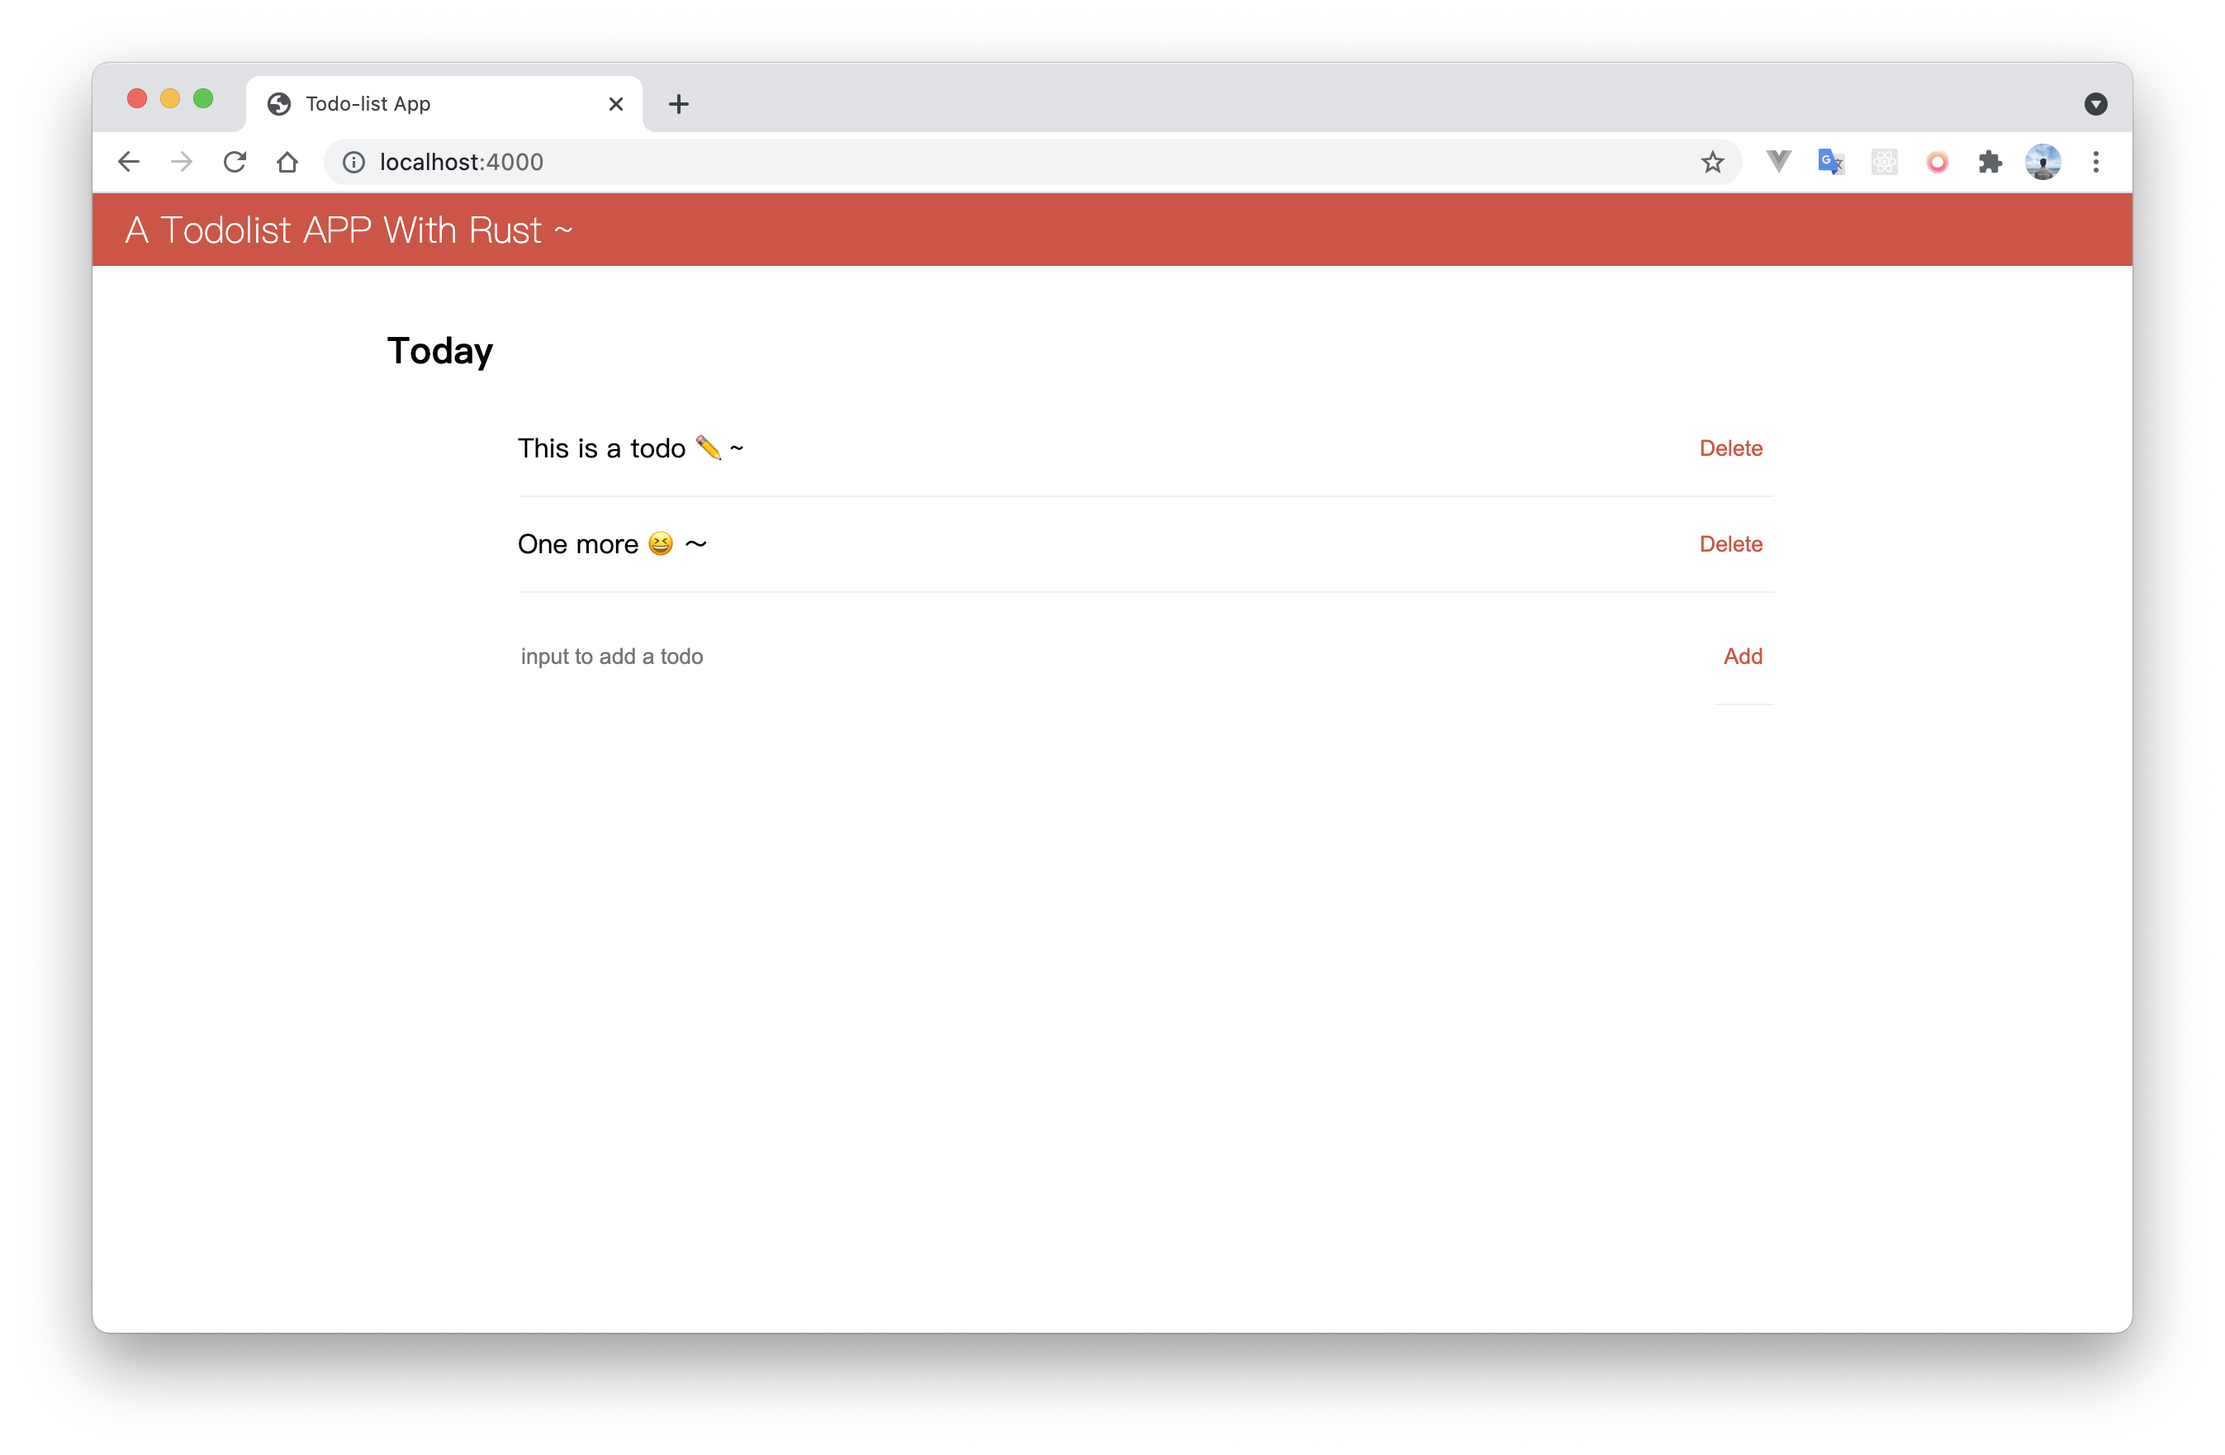
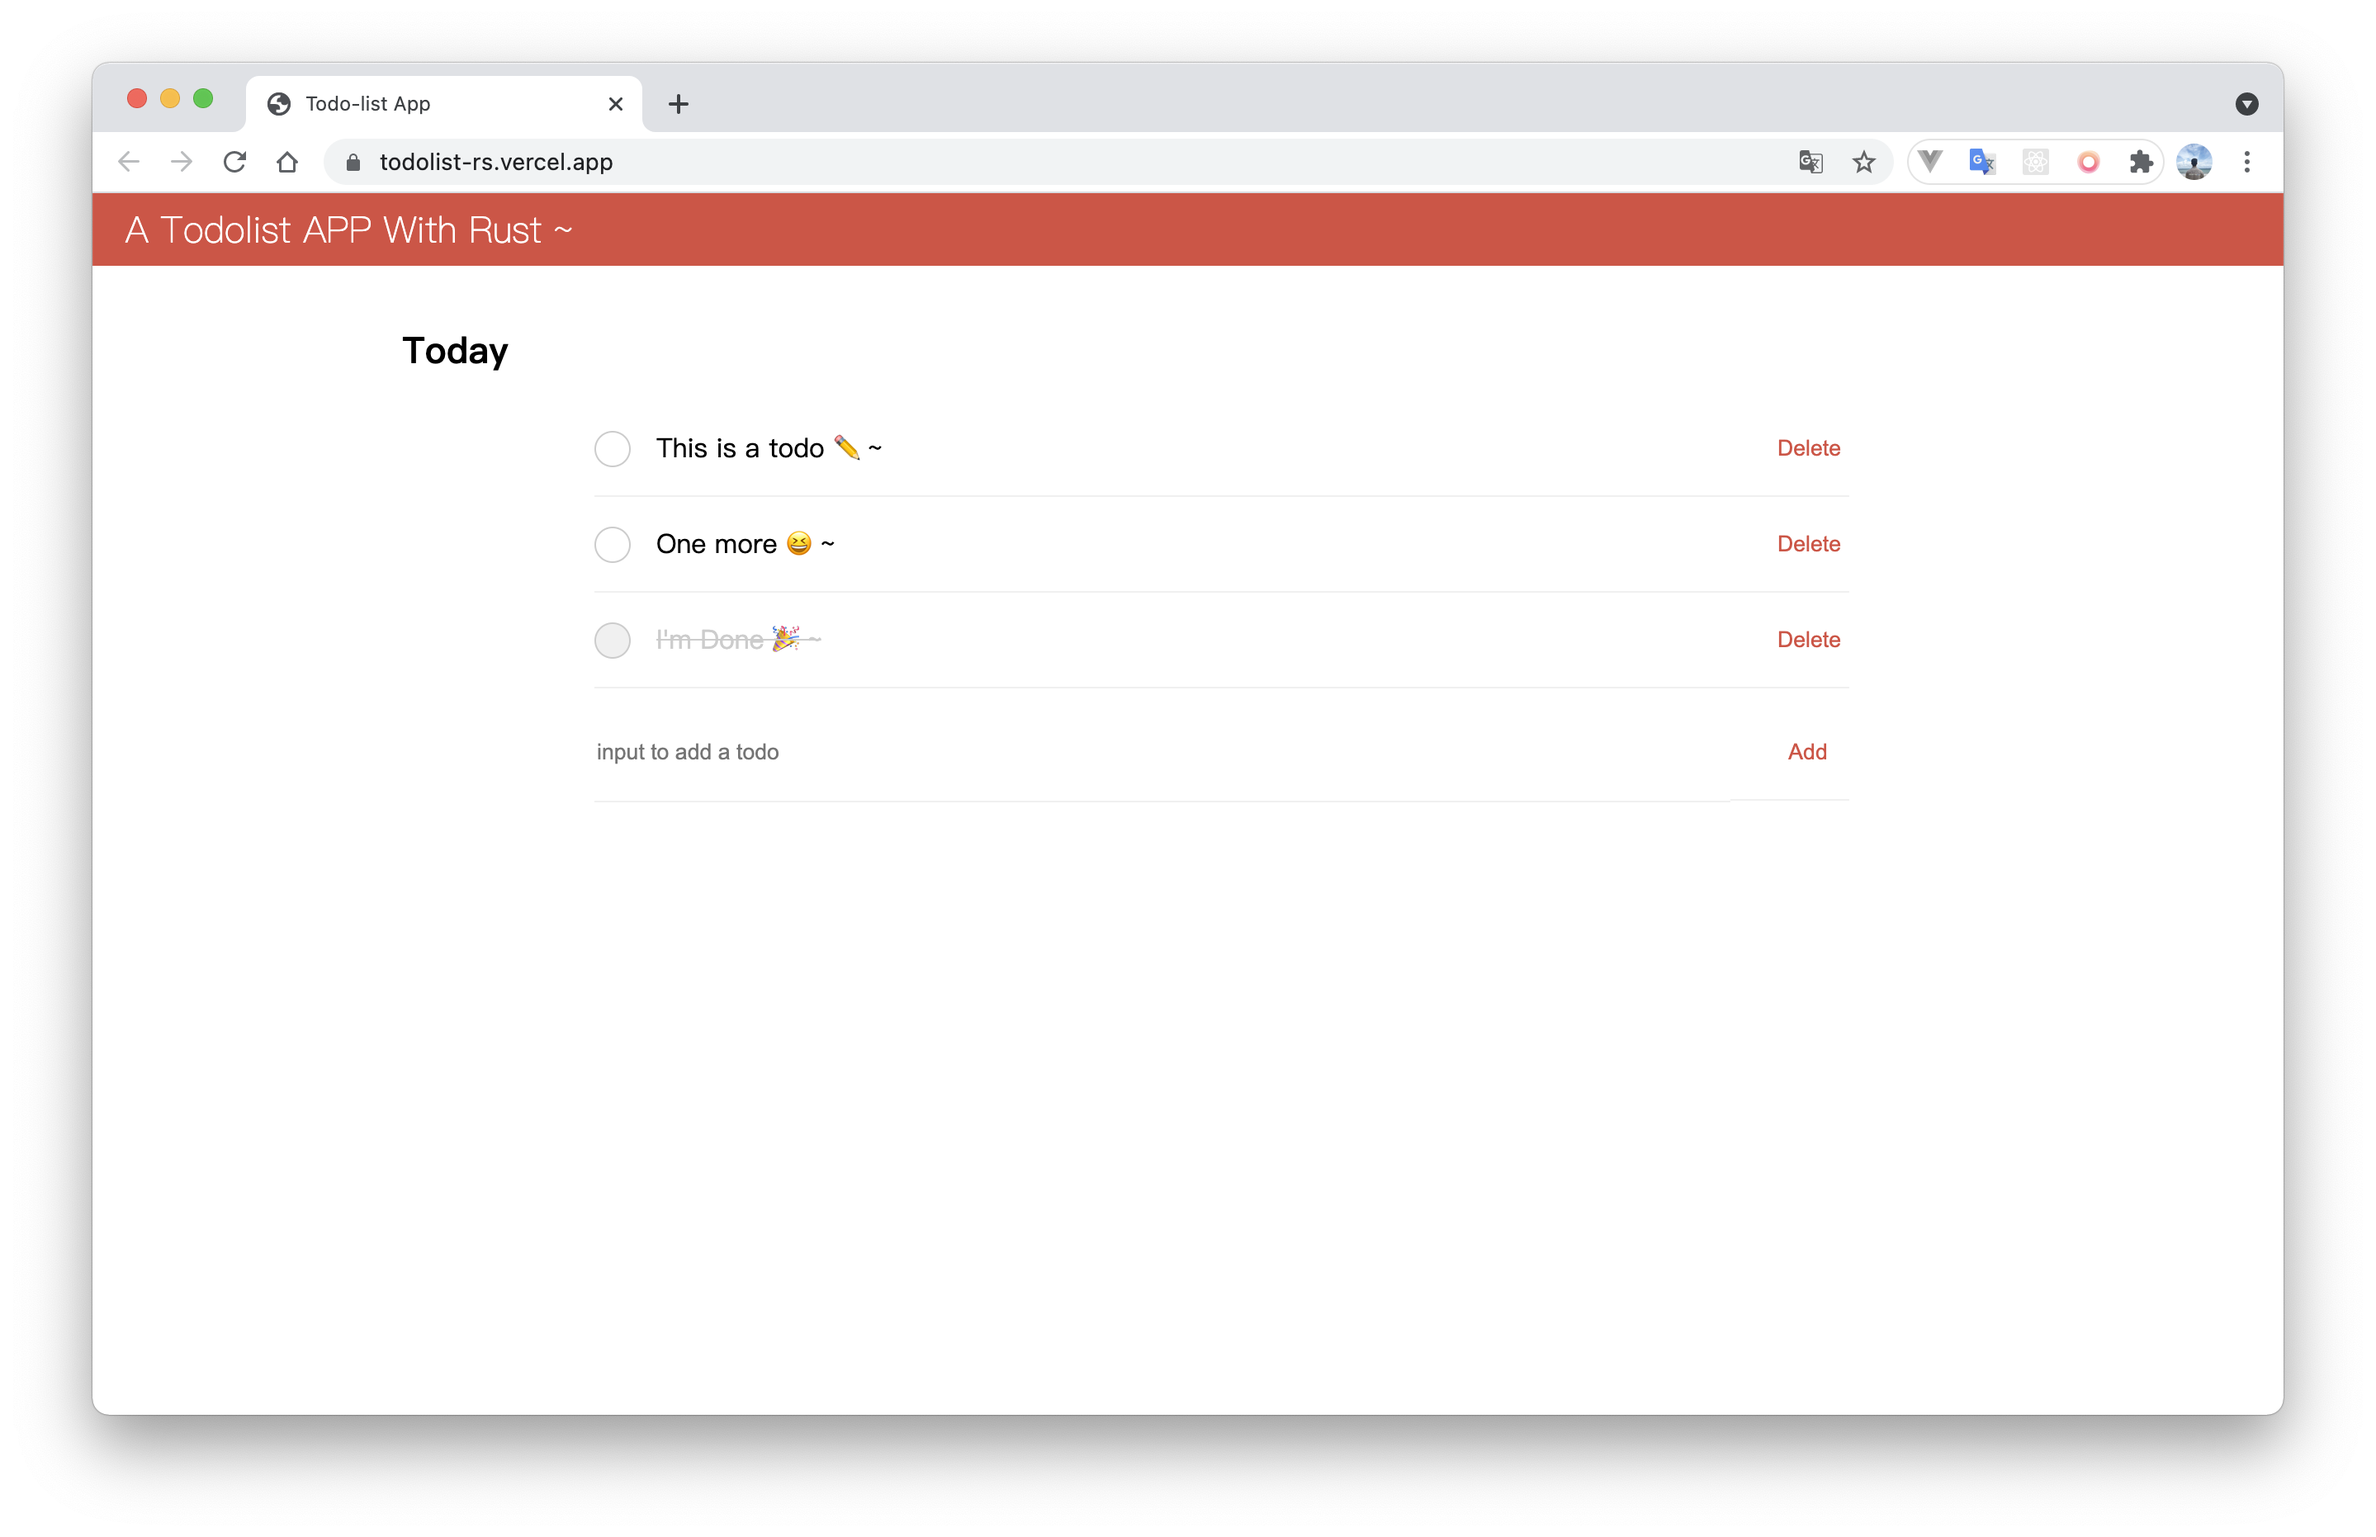
feat: update README

diff --git a/README.md b/README.md
@@ -19,8 +19,11 @@ Then use a service like [serve](https://www.npmjs.com/package/serve) to host fil
 
 ## Todo
 
-- [ ] todo and done status
-- [ ] storage
+- [x] todo and done status
+- [x] storage
+- [ ] Compatible with mobile devices
+- [ ] More useful information
+...
 
 
 ### Contributors
